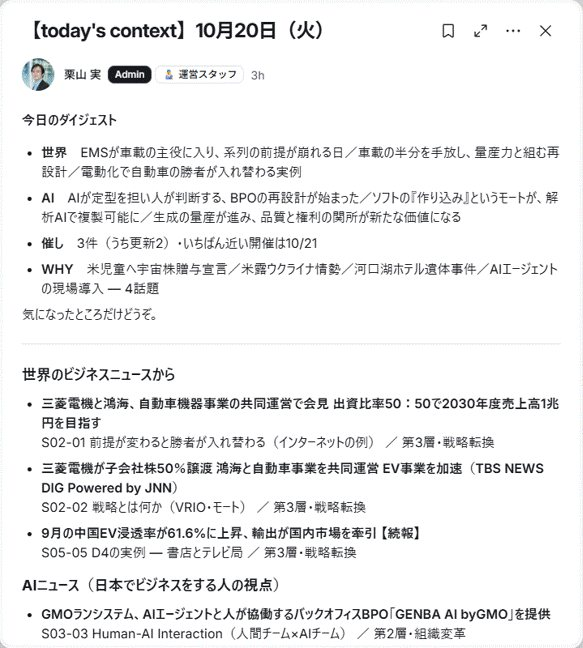
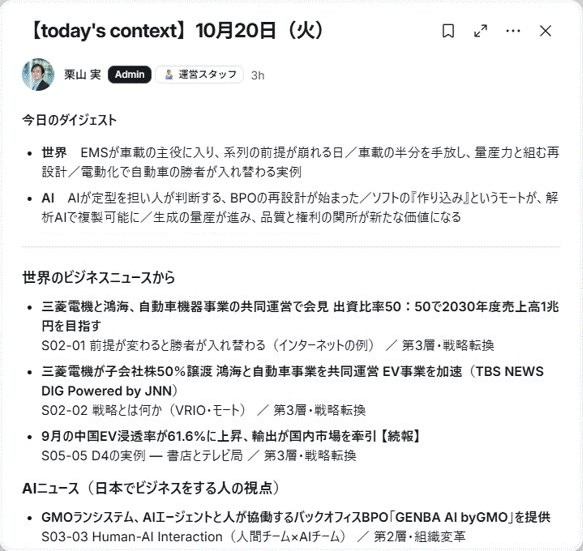
広告用LP：ペルソナで読み直して見つかった不具合を直す
- 毎朝のAIニュース解釈の画像（コミュニティの投稿）から、「催し」「WHY」の行を
  切り取った。事件・政治のニュースの見出しが写っていた
- 画像に元の幅と高さを書く（hooks/img_size.py。テンプレートの img_attrs）。
  遅れて読み込む画像で、携帯ではページが約1,200px伸び、読んでいる文と
  ページ内の移動先がずれていた
- 最初の画面の副リンクを仕様どおりに戻した（「まずは様子を見る：開催の報告をメールで →」）
- 料金の枠の条件と、最初の画面の注記を濃く・少し大きくした
- CLAUDE.md：img_size.py と、ニュースの見出しが写る画像の確認

Claude-Session: https://claude.ai/code/session_011pXDuBRoRhyJdmNCPmHCDr

diff --git a/docs/stylesheets/extra.css b/docs/stylesheets/extra.css
@@ -992,7 +992,7 @@ body:has(.st) .md-main { background: #fff; }
 .st .st-hero__stats b { font-family: var(--serif); font-size: 18px; line-height: 1.3; color: var(--teal); }
 .st .st-hero__stats span { font-size: 12px; line-height: 1.45; color: var(--muted); }
 .st .st-hero__cta { margin-top: 20px; }
-.st .st-hero__note { font-size: 13px; line-height: 1.75; color: var(--muted); margin-top: 10px; }
+.st .st-hero__note { font-size: 14px; line-height: 1.75; color: #3d5258; margin-top: 10px; }
 .st .st-hero__links { display: flex; flex-direction: column; gap: 8px; margin-top: 14px; }
 .st .st-hero__links a { font-size: 14px; line-height: 1.6; color: var(--teal2); }
 
@@ -1173,7 +1173,7 @@ body:has(.st) .md-main { background: #fff; }
   line-height: 1.6; border-radius: 999px; padding: 2px 14px; }
 .st .st-checks--plan { gap: 8px; }
 .st .st-checks--plan li { font-size: 15.5px; line-height: 1.7; background: none; }
-.st .st-plan__cond { font-size: 13.5px; line-height: 1.85; color: var(--muted); background: #f2f7f7; border-radius: 10px; padding: 12px 14px; }
+.st .st-plan__cond { font-size: 14.5px; line-height: 1.85; color: var(--ink); background: #f2f7f7; border-radius: 10px; padding: 12px 14px; }
 .st .st-corp { background: #fff; border: 1px solid #d7e4e6; border-radius: 16px; padding: 22px 20px 24px; align-self: start; }
 .st .st-corp p { font-size: 14.5px; line-height: 1.85; color: #2b3a3f; margin-bottom: 10px; }
 .st .st-corp a { font-weight: 700; }

diff --git a/overrides/start.html b/overrides/start.html
@@ -69,8 +69,8 @@
           <p class="st-hero__note">いつからでも参加できます。お申し込みのあと最初の回は無料で、合わなければ費用はかかりません。以降は月額{{ pr.early_monthly_incl }}円（税込）。</p>
         </div>
         <p class="st-hero__links">
-          <a href="#change">この場について読む <span aria-hidden="true">↓</span></a>
           <a href="{{ library_url }}" target="_blank" rel="noopener" data-ga="click_library" data-ga-pos="hero">毎朝更新のAI戦略ライブラリーを見る（登録不要）→</a>
+          <a href="#watch">まずは様子を見る：開催の報告をメールで →</a>
         </p>
       </div>
     </div>

diff --git a/overrides/partials/lp.html b/overrides/partials/lp.html
@@ -75,5 +75,5 @@
 
 {#- 画面の写真の枠（ホームの .shot と同じ質感）。src が空なら何も出さない -#}
 {% macro shot(src, alt, cls="", lazy=true) -%}
-{%- if src %}<div class="st-shot {{ cls }}"><img src="{{ src | url }}" alt="{{ alt }}"{% if lazy %} loading="lazy"{% else %} fetchpriority="high"{% endif %}></div>{% endif -%}
+{%- if src %}<div class="st-shot {{ cls }}"><img src="{{ src | url }}" {{ img_attrs(src) }} alt="{{ alt }}"{% if lazy %} loading="lazy"{% else %} fetchpriority="high"{% endif %}></div>{% endif -%}
 {%- endmacro %}

diff --git a/hooks/img_size.py b/hooks/img_size.py
@@ -1,0 +1,57 @@
+"""テンプレートの <img> に、元の画像の幅と高さを書き込む（グローバル関数 `img_attrs`）。
+
+広告用LP（/start/）の画面写真は loading="lazy" で読み込む。幅と高さを書いていないと、
+読み込まれた時点でページが伸び、読んでいる文がずれる（携帯で約1,200px伸びていた）。
+ページ内の移動（帯の「参加する」など）の行き先もずれる。
+ビルドの時に元の画像の大きさを読んで width・height を書き、場所を先に取っておく。
+表示の大きさは CSS（`width: 100%; height: auto`）が決めるので、書くのは縦横の比のため。
+
+使い方（overrides/*.html）:
+    <img src="{{ src | url }}" {{ img_attrs(src) }} alt="…">
+src はサイト相対（例：assets/img/start/studio.jpg）。読めない画像なら何も書かない。
+"""
+
+from __future__ import annotations
+
+import functools
+import os
+
+from markupsafe import Markup
+
+try:
+    from PIL import Image
+except ImportError:  # 画像ライブラリが無い環境では、幅と高さを書かない（表示は変わらない）
+    Image = None
+
+_docs_dir: str | None = None
+
+
+def on_config(config):
+    global _docs_dir
+    _docs_dir = config["docs_dir"]
+    return config
+
+
+@functools.lru_cache(maxsize=256)
+def _size(path: str):
+    if Image is None or not os.path.isfile(path):
+        return None
+    try:
+        with Image.open(path) as im:
+            return im.size
+    except Exception:
+        return None
+
+
+def img_attrs(src) -> Markup:
+    if not src or not _docs_dir:
+        return Markup("")
+    size = _size(os.path.join(_docs_dir, str(src).lstrip("/")))
+    if not size:
+        return Markup("")
+    return Markup(f'width="{size[0]}" height="{size[1]}"')
+
+
+def on_env(env, config, files):
+    env.globals["img_attrs"] = img_attrs
+    return env
